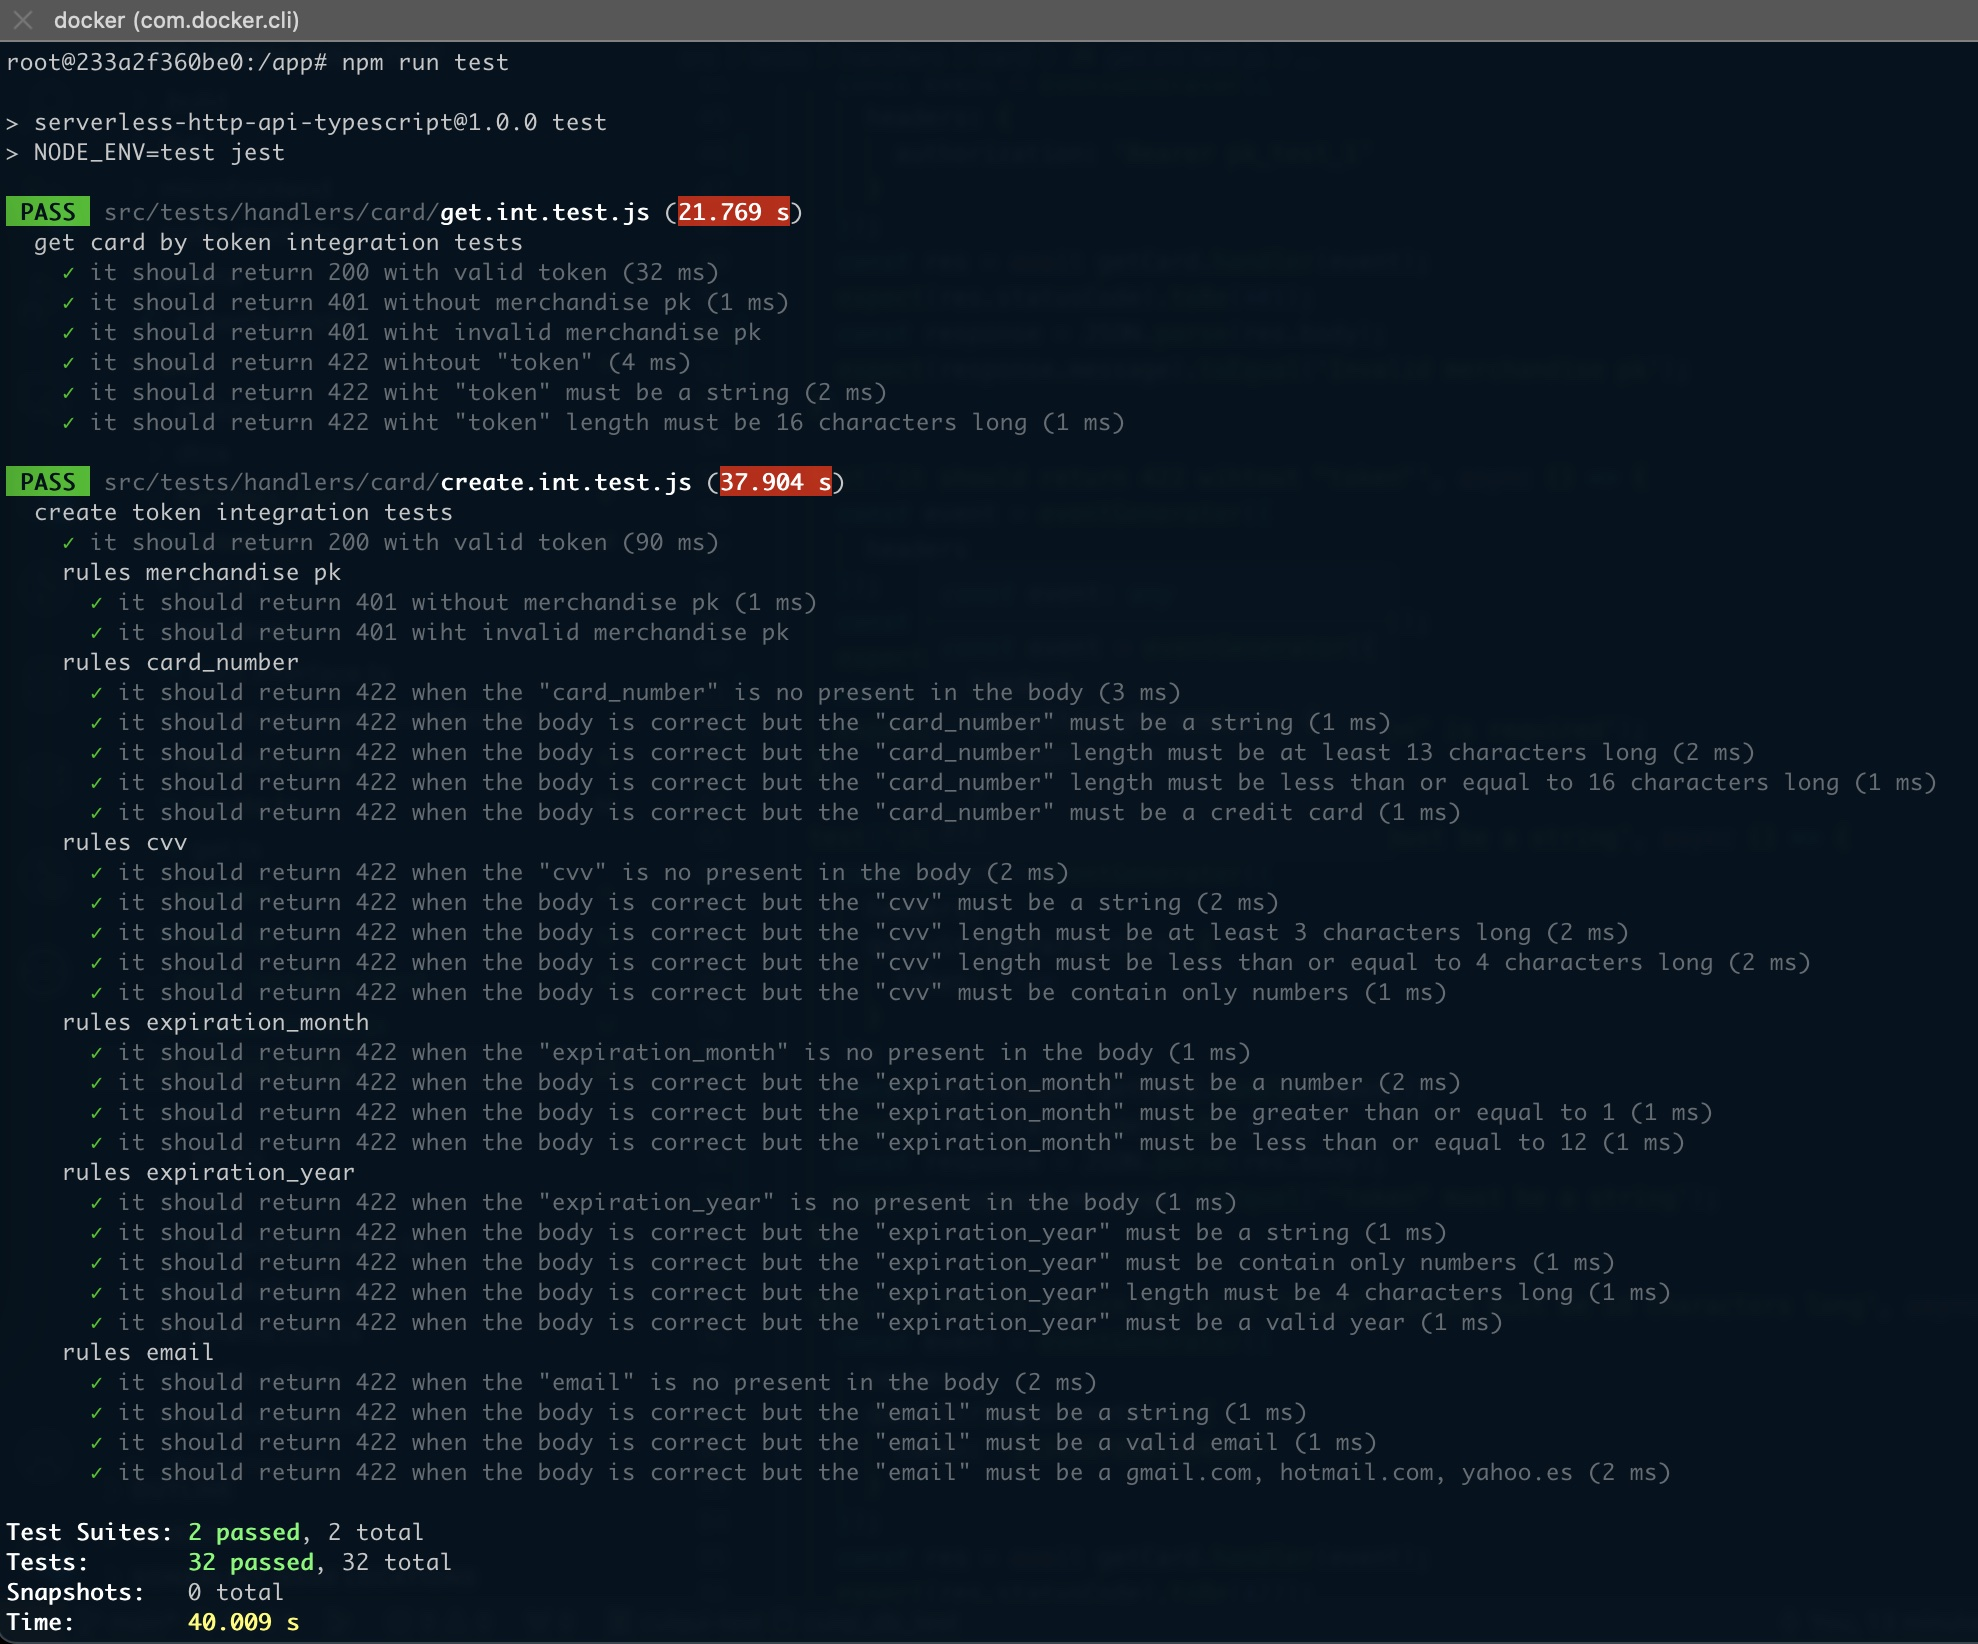
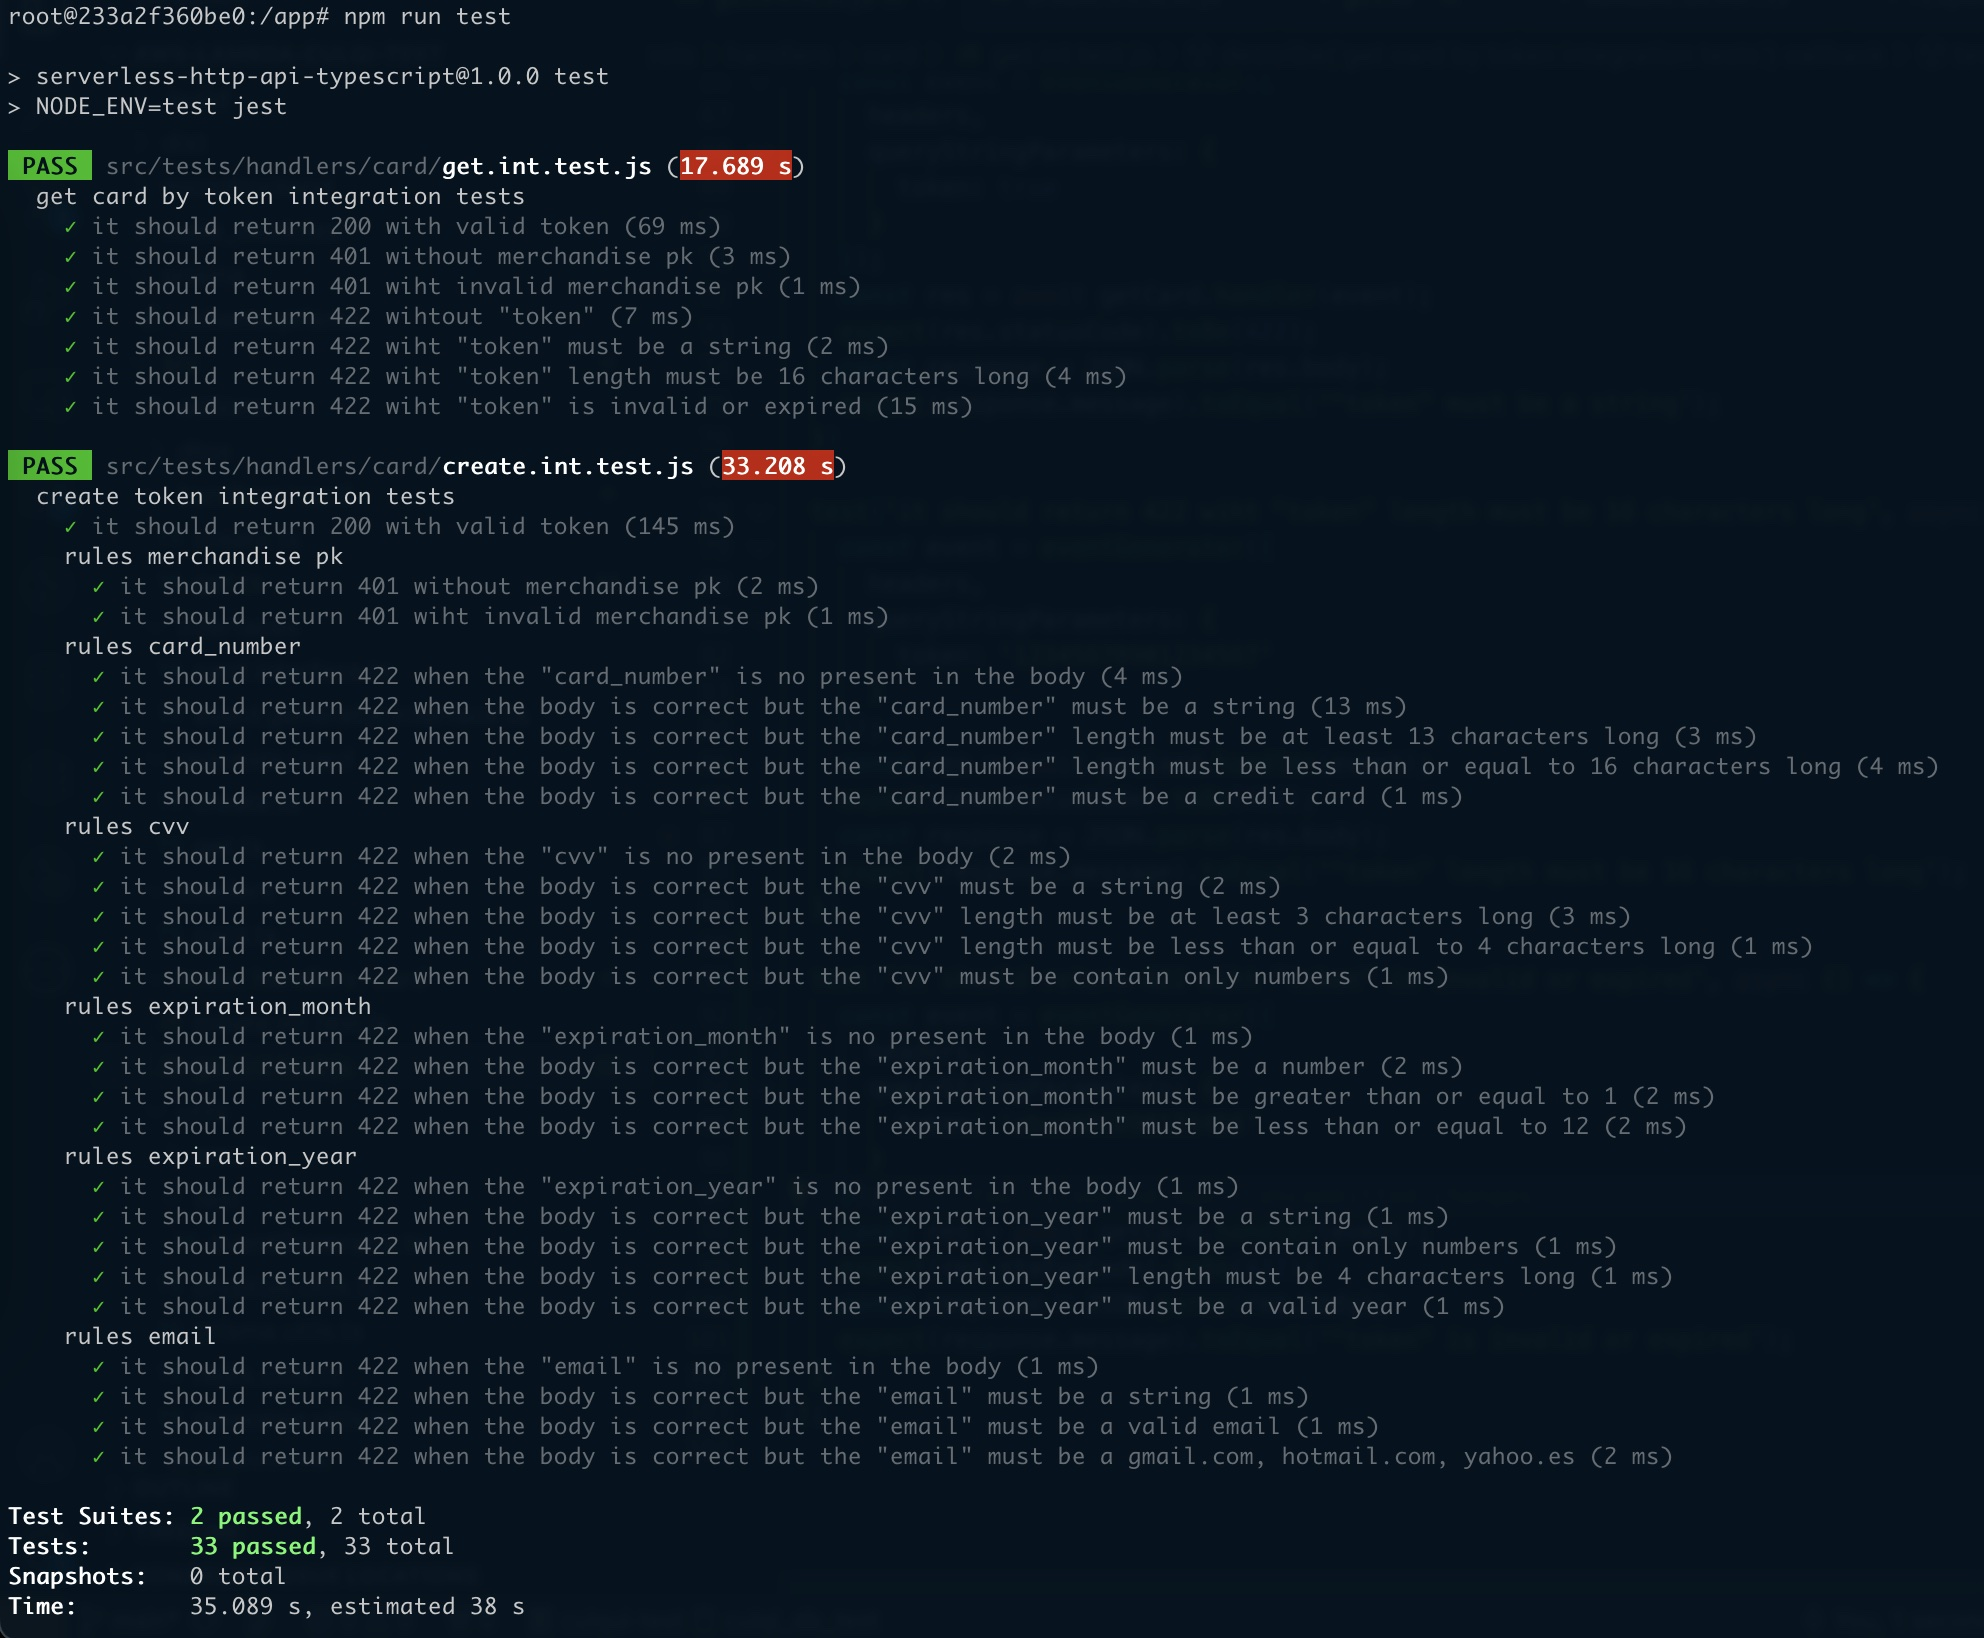
update test and screanshot

Changed region(s): [[0.0, 0.0, 1.0, 1.0]]

diff --git a/src/tests/handlers/card/get.int.test.js b/src/tests/handlers/card/get.int.test.js
@@ -87,4 +87,17 @@ describe('get card by token integration tests', () => {
     const response = JSON.parse(res.body);
     expect(response.message).toEqual('"token" length must be 16 characters long');
   })
+
+  test('it should return 422 wiht "token" is invalid or expired', async () => {
+    const event = eventGenerator({
+      headers,
+      queryStringParameters: {
+        token: 'abcdABCD90123456'
+      }
+    });
+    const res = await getCard.handler(event);
+    expect(res.statusCode).toBe(422);
+    const response = JSON.parse(res.body);
+    expect(response.message).toEqual('"token" is invalid or expired');
+  })
 });

diff --git a/src/handlers/card/get.ts b/src/handlers/card/get.ts
@@ -19,7 +19,7 @@ export const handler = async (event: APIGatewayProxyEvent): Promise<APIGatewayPr
     await (new GetCardRequest(params)).validate()
     const data = await (new GetProductAction(params.token)).execute()
     if (!data) {
-      return unprocessableEntity({ message: '"token" is invalid  or expired' })
+      return unprocessableEntity({ message: '"token" is invalid or expired' })
     }
 
     return success(data)
